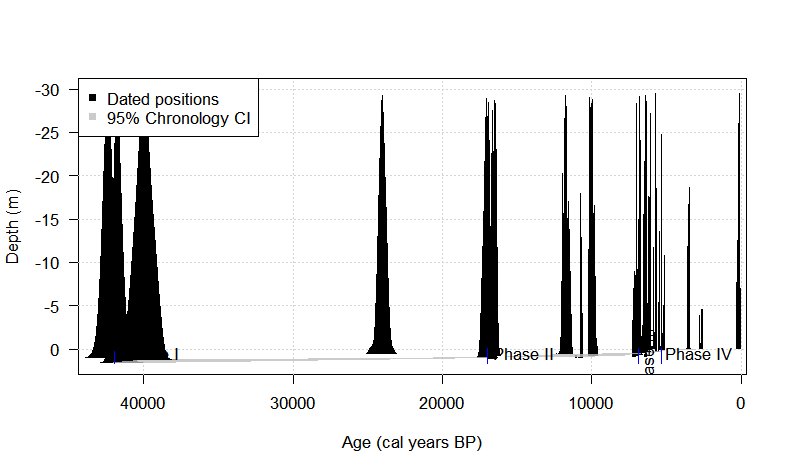
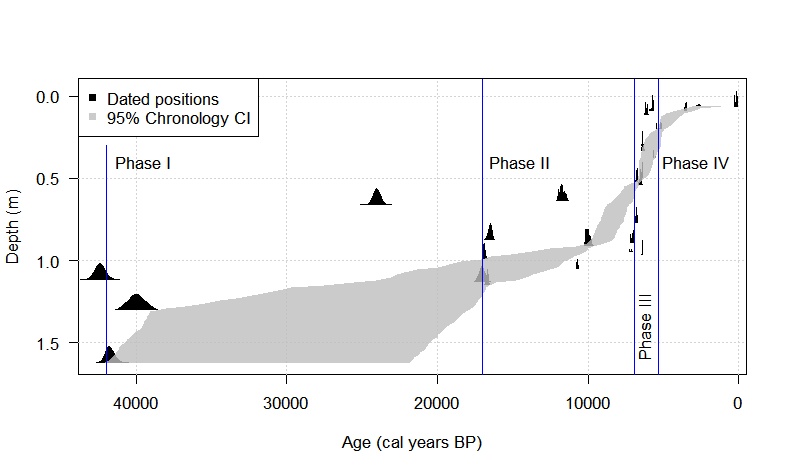
update the bchron plotting code to accommodate some changes in the package

diff --git a/manuscript/lithic_data_analysis_both_squares.html b/manuscript/lithic_data_analysis_both_squares.html
@@ -174,9 +174,10 @@ plot(ages_predict,
      main=&quot;&quot;,
      xlab='Age (cal years BP)',
      ylab='Depth (m)',
-     las=1 ) #, 
+     las=1, 
+     dateHeight = 0.1) #, 
      #asp=0.6)
-
+  
 # add phases
 
 phases &lt;- data.frame(phase = 1:4,
@@ -210,7 +211,7 @@ dev.off()
 
 # and show the plot when this document is knited
 bchron_plot()</code></pre>
[2 lines of base64/hex data omitted]
 <pre class="r"><code># various dadta
 core_types &lt;- read.csv(&quot;data/Jerimalai_cores_techno_metrics.csv&quot;)
 # retouch indices
@@ -3730,7 +3731,7 @@ kable(round(HDI_intervals_for_interactions,3), caption = &quot;Liang Bua Stone A
 </div>
 <div id="colophon" class="section level1">
 <h1>Colophon</h1>
-<p>This report was generated on 2016-08-27 21:59:45 using the following computational environment and dependences:</p>
+<p>This report was generated on 2016-08-27 23:30:45 using the following computational environment and dependences:</p>
 <pre class="r"><code># which R packages and versions?
 sessionInfo()</code></pre>
 <pre><code>R version 3.3.1 (2016-06-21)
@@ -3755,7 +3756,7 @@ other attached packages:
 [11] rjags_4-6                          coda_0.18-1                       
 [13] vcd_1.4-1                          dplyr_0.5.0.9000                  
 [15] plyr_1.8.4                         reshape2_1.4.1                    
-[17] ggplot2_2.1.0                      rmarkdown_1.0.9002                
+[17] ggplot2_2.1.0                      rmarkdown_1.0.9010                
 [19] printr_0.0.4                       knitr_1.14                        
 
 loaded via a namespace (and not attached):
@@ -3763,9 +3764,10 @@ loaded via a namespace (and not attached):
  [5] digest_0.6.10    jsonlite_1.0     evaluate_0.9     tibble_1.1      
  [9] gtable_0.2.0     DBI_0.5          jagsUI_1.4.2     yaml_2.1.13     
 [13] parallel_3.3.1   stringr_1.0.0    lmtest_0.9-34    ellipse_0.3-8   
-[17] R6_2.1.2         magrittr_1.5     scales_0.4.0     htmltools_0.3.5 
-[21] MASS_7.3-45      assertthat_0.1   colorspace_1.2-6 stringi_1.1.1   
-[25] lazyeval_0.2.0   munsell_0.4.3    chron_2.3-47     zoo_1.7-13      </code></pre>
+[17] R6_2.1.2         magrittr_1.5     codetools_0.2-14 scales_0.4.0    
+[21] htmltools_0.3.5  MASS_7.3-45      assertthat_0.1   colorspace_1.2-6
+[25] stringi_1.1.1    lazyeval_0.2.0   munsell_0.4.3    chron_2.3-47    
+[29] zoo_1.7-13      </code></pre>
 <pre class="r"><code># what other pieces of software?
 needs &lt;- needs()
 c(needs$depends$SystemRequirements[needs$depends$SystemRequirements != &quot;NULL&quot;], needs$imports$SystemRequirements[needs$imports$SystemRequirements != &quot;NULL&quot;])</code></pre>
@@ -3779,7 +3781,7 @@ c(needs$depends$SystemRequirements[needs$depends$SystemRequirements != &quot;NUL
 <pre class="r"><code># what commit is this file at?
 repo &lt;- repository(path = &quot;../&quot;)
 last_commit &lt;- commits(repo)[[1]]</code></pre>
-<p>The current git commit of this file is 21bce38adf5c3376370c8a3fbba103a605e95a17, which is on the master branch and was made by rstudio on 2016-05-13 17:29:53. The current commit message is “re-run both squares doc to generate figures”.</p>
+<p>The current git commit of this file is e3d67e2d4a5e8d11cb473b3dd1028a847b408594, which is on the master branch and was made by Ben Marwick on 2016-08-27 22:00:41. The current commit message is “clean run of both squares”.</p>
 </div>
 
 

diff --git a/manuscript/supplement.html b/manuscript/supplement.html
@@ -1,0 +1,243 @@
+<!DOCTYPE html>
+
+<html xmlns="http://www.w3.org/1999/xhtml">
+
+<head>
+
+<meta charset="utf-8">
+<meta http-equiv="Content-Type" content="text/html; charset=utf-8" />
+<meta name="generator" content="pandoc" />
+
+<meta name="viewport" content="width=device-width, initial-scale=1">
+
+
+<meta name="date" content="2016-08-27" />
+
+<title>Supplement for: Pleistocene-aged stone artefacts from Jerimalai, East Timor: Long term conservatism in early modern human technology in island Southeast Asia</title>
+
+
+
+<style type="text/css">code{white-space: pre;}</style>
+<style type="text/css">
+div.sourceCode { overflow-x: auto; }
+table.sourceCode, tr.sourceCode, td.lineNumbers, td.sourceCode {
+  margin: 0; padding: 0; vertical-align: baseline; border: none; }
+table.sourceCode { width: 100%; line-height: 100%; }
+td.lineNumbers { text-align: right; padding-right: 4px; padding-left: 4px; color: #aaaaaa; border-right: 1px solid #aaaaaa; }
+td.sourceCode { padding-left: 5px; }
+code > span.kw { color: #007020; font-weight: bold; } /* Keyword */
+code > span.dt { color: #902000; } /* DataType */
+code > span.dv { color: #40a070; } /* DecVal */
+code > span.bn { color: #40a070; } /* BaseN */
+code > span.fl { color: #40a070; } /* Float */
+code > span.ch { color: #4070a0; } /* Char */
+code > span.st { color: #4070a0; } /* String */
+code > span.co { color: #60a0b0; font-style: italic; } /* Comment */
+code > span.ot { color: #007020; } /* Other */
+code > span.al { color: #ff0000; font-weight: bold; } /* Alert */
+code > span.fu { color: #06287e; } /* Function */
+code > span.er { color: #ff0000; font-weight: bold; } /* Error */
+code > span.wa { color: #60a0b0; font-weight: bold; font-style: italic; } /* Warning */
+code > span.cn { color: #880000; } /* Constant */
+code > span.sc { color: #4070a0; } /* SpecialChar */
+code > span.vs { color: #4070a0; } /* VerbatimString */
+code > span.ss { color: #bb6688; } /* SpecialString */
+code > span.im { } /* Import */
+code > span.va { color: #19177c; } /* Variable */
+code > span.cf { color: #007020; font-weight: bold; } /* ControlFlow */
+code > span.op { color: #666666; } /* Operator */
+code > span.bu { } /* BuiltIn */
+code > span.ex { } /* Extension */
+code > span.pp { color: #bc7a00; } /* Preprocessor */
+code > span.at { color: #7d9029; } /* Attribute */
+code > span.do { color: #ba2121; font-style: italic; } /* Documentation */
+code > span.an { color: #60a0b0; font-weight: bold; font-style: italic; } /* Annotation */
+code > span.cv { color: #60a0b0; font-weight: bold; font-style: italic; } /* CommentVar */
+code > span.in { color: #60a0b0; font-weight: bold; font-style: italic; } /* Information */
+</style>
+
+
+
+<link href="data:text/css;charset=utf-8,body%20%7B%0Abackground%2Dcolor%3A%20%23fff%3B%0Amargin%3A%201em%20auto%3B%0Amax%2Dwidth%3A%20700px%3B%0Aoverflow%3A%20visible%3B%0Apadding%2Dleft%3A%202em%3B%0Apadding%2Dright%3A%202em%3B%0Afont%2Dfamily%3A%20%22Open%20Sans%22%2C%20%22Helvetica%20Neue%22%2C%20Helvetica%2C%20Arial%2C%20sans%2Dserif%3B%0Afont%2Dsize%3A%2014px%3B%0Aline%2Dheight%3A%201%2E35%3B%0A%7D%0A%23header%20%7B%0Atext%2Dalign%3A%20center%3B%0A%7D%0A%23TOC%20%7B%0Aclear%3A%20both%3B%0Amargin%3A%200%200%2010px%2010px%3B%0Apadding%3A%204px%3B%0Awidth%3A%20400px%3B%0Aborder%3A%201px%20solid%20%23CCCCCC%3B%0Aborder%2Dradius%3A%205px%3B%0Abackground%2Dcolor%3A%20%23f6f6f6%3B%0Afont%2Dsize%3A%2013px%3B%0Aline%2Dheight%3A%201%2E3%3B%0A%7D%0A%23TOC%20%2Etoctitle%20%7B%0Afont%2Dweight%3A%20bold%3B%0Afont%2Dsize%3A%2015px%3B%0Amargin%2Dleft%3A%205px%3B%0A%7D%0A%23TOC%20ul%20%7B%0Apadding%2Dleft%3A%2040px%3B%0Amargin%2Dleft%3A%20%2D1%2E5em%3B%0Amargin%2Dtop%3A%205px%3B%0Amargin%2Dbottom%3A%205px%3B%0A%7D%0A%23TOC%20ul%20ul%20%7B%0Amargin%2Dleft%3A%20%2D2em%3B%0A%7D%0A%23TOC%20li%20%7B%0Aline%2Dheight%3A%2016px%3B%0A%7D%0Atable%20%7B%0Amargin%3A%201em%20auto%3B%0Aborder%2Dwidth%3A%201px%3B%0Aborder%2Dcolor%3A%20%23DDDDDD%3B%0Aborder%2Dstyle%3A%20outset%3B%0Aborder%2Dcollapse%3A%20collapse%3B%0A%7D%0Atable%20th%20%7B%0Aborder%2Dwidth%3A%202px%3B%0Apadding%3A%205px%3B%0Aborder%2Dstyle%3A%20inset%3B%0A%7D%0Atable%20td%20%7B%0Aborder%2Dwidth%3A%201px%3B%0Aborder%2Dstyle%3A%20inset%3B%0Aline%2Dheight%3A%2018px%3B%0Apadding%3A%205px%205px%3B%0A%7D%0Atable%2C%20table%20th%2C%20table%20td%20%7B%0Aborder%2Dleft%2Dstyle%3A%20none%3B%0Aborder%2Dright%2Dstyle%3A%20none%3B%0A%7D%0Atable%20thead%2C%20table%20tr%2Eeven%20%7B%0Abackground%2Dcolor%3A%20%23f7f7f7%3B%0A%7D%0Ap%20%7B%0Amargin%3A%200%2E5em%200%3B%0A%7D%0Ablockquote%20%7B%0Abackground%2Dcolor%3A%20%23f6f6f6%3B%0Apadding%3A%200%2E25em%200%2E75em%3B%0A%7D%0Ahr%20%7B%0Aborder%2Dstyle%3A%20solid%3B%0Aborder%3A%20none%3B%0Aborder%2Dtop%3A%201px%20solid%20%23777%3B%0Amargin%3A%2028px%200%3B%0A%7D%0Adl%20%7B%0Amargin%2Dleft%3A%200%3B%0A%7D%0Adl%20dd%20%7B%0Amargin%2Dbottom%3A%2013px%3B%0Amargin%2Dleft%3A%2013px%3B%0A%7D%0Adl%20dt%20%7B%0Afont%2Dweight%3A%20bold%3B%0A%7D%0Aul%20%7B%0Amargin%2Dtop%3A%200%3B%0A%7D%0Aul%20li%20%7B%0Alist%2Dstyle%3A%20circle%20outside%3B%0A%7D%0Aul%20ul%20%7B%0Amargin%2Dbottom%3A%200%3B%0A%7D%0Apre%2C%20code%20%7B%0Abackground%2Dcolor%3A%20%23f7f7f7%3B%0Aborder%2Dradius%3A%203px%3B%0Acolor%3A%20%23333%3B%0Awhite%2Dspace%3A%20pre%2Dwrap%3B%20%0A%7D%0Apre%20%7B%0Aborder%2Dradius%3A%203px%3B%0Amargin%3A%205px%200px%2010px%200px%3B%0Apadding%3A%2010px%3B%0A%7D%0Apre%3Anot%28%5Bclass%5D%29%20%7B%0Abackground%2Dcolor%3A%20%23f7f7f7%3B%0A%7D%0Acode%20%7B%0Afont%2Dfamily%3A%20Consolas%2C%20Monaco%2C%20%27Courier%20New%27%2C%20monospace%3B%0Afont%2Dsize%3A%2085%25%3B%0A%7D%0Ap%20%3E%20code%2C%20li%20%3E%20code%20%7B%0Apadding%3A%202px%200px%3B%0A%7D%0Adiv%2Efigure%20%7B%0Atext%2Dalign%3A%20center%3B%0A%7D%0Aimg%20%7B%0Abackground%2Dcolor%3A%20%23FFFFFF%3B%0Apadding%3A%202px%3B%0Aborder%3A%201px%20solid%20%23DDDDDD%3B%0Aborder%2Dradius%3A%203px%3B%0Aborder%3A%201px%20solid%20%23CCCCCC%3B%0Amargin%3A%200%205px%3B%0A%7D%0Ah1%20%7B%0Amargin%2Dtop%3A%200%3B%0Afont%2Dsize%3A%2035px%3B%0Aline%2Dheight%3A%2040px%3B%0A%7D%0Ah2%20%7B%0Aborder%2Dbottom%3A%204px%20solid%20%23f7f7f7%3B%0Apadding%2Dtop%3A%2010px%3B%0Apadding%2Dbottom%3A%202px%3B%0Afont%2Dsize%3A%20145%25%3B%0A%7D%0Ah3%20%7B%0Aborder%2Dbottom%3A%202px%20solid%20%23f7f7f7%3B%0Apadding%2Dtop%3A%2010px%3B%0Afont%2Dsize%3A%20120%25%3B%0A%7D%0Ah4%20%7B%0Aborder%2Dbottom%3A%201px%20solid%20%23f7f7f7%3B%0Amargin%2Dleft%3A%208px%3B%0Afont%2Dsize%3A%20105%25%3B%0A%7D%0Ah5%2C%20h6%20%7B%0Aborder%2Dbottom%3A%201px%20solid%20%23ccc%3B%0Afont%2Dsize%3A%20105%25%3B%0A%7D%0Aa%20%7B%0Acolor%3A%20%230033dd%3B%0Atext%2Ddecoration%3A%20none%3B%0A%7D%0Aa%3Ahover%20%7B%0Acolor%3A%20%236666ff%3B%20%7D%0Aa%3Avisited%20%7B%0Acolor%3A%20%23800080%3B%20%7D%0Aa%3Avisited%3Ahover%20%7B%0Acolor%3A%20%23BB00BB%3B%20%7D%0Aa%5Bhref%5E%3D%22http%3A%22%5D%20%7B%0Atext%2Ddecoration%3A%20underline%3B%20%7D%0Aa%5Bhref%5E%3D%22https%3A%22%5D%20%7B%0Atext%2Ddecoration%3A%20underline%3B%20%7D%0A%0Acode%20%3E%20span%2Ekw%20%7B%20color%3A%20%23555%3B%20font%2Dweight%3A%20bold%3B%20%7D%20%0Acode%20%3E%20span%2Edt%20%7B%20color%3A%20%23902000%3B%20%7D%20%0Acode%20%3E%20span%2Edv%20%7B%20color%3A%20%2340a070%3B%20%7D%20%0Acode%20%3E%20span%2Ebn%20%7B%20color%3A%20%23d14%3B%20%7D%20%0Acode%20%3E%20span%2Efl%20%7B%20color%3A%20%23d14%3B%20%7D%20%0Acode%20%3E%20span%2Ech%20%7B%20color%3A%20%23d14%3B%20%7D%20%0Acode%20%3E%20span%2Est%20%7B%20color%3A%20%23d14%3B%20%7D%20%0Acode%20%3E%20span%2Eco%20%7B%20color%3A%20%23888888%3B%20font%2Dstyle%3A%20italic%3B%20%7D%20%0Acode%20%3E%20span%2Eot%20%7B%20color%3A%20%23007020%3B%20%7D%20%0Acode%20%3E%20span%2Eal%20%7B%20color%3A%20%23ff0000%3B%20font%2Dweight%3A%20bold%3B%20%7D%20%0Acode%20%3E%20span%2Efu%20%7B%20color%3A%20%23900%3B%20font%2Dweight%3A%20bold%3B%20%7D%20%20code%20%3E%20span%2Eer%20%7B%20color%3A%20%23a61717%3B%20background%2Dcolor%3A%20%23e3d2d2%3B%20%7D%20%0A" rel="stylesheet" type="text/css" />
+
+</head>
+
+<body>
+
+
+
+
+<h1 class="title toc-ignore">Supplement for: Pleistocene-aged stone artefacts from Jerimalai, East Timor: Long term conservatism in early modern human technology in island Southeast Asia</h1>
+<h4 class="author"><em>Ben Marwick</em></h4>
+<a class="author_email" href="mailto:#"><a href="mailto:bmarwick@uw.edu">bmarwick@uw.edu</a></a>
+</address>
+<h4 class="date"><em>2016-08-27</em></h4>
+
+
+<div id="TOC">
+<ul>
+<li><a href="#introduction"><span class="toc-section-number">1</span> Introduction</a><ul>
+<li><a href="#reproducing-the-results-in-the-paper"><span class="toc-section-number">1.1</span> Reproducing the results in the paper</a></li>
+<li><a href="#code-and-dependencies"><span class="toc-section-number">1.2</span> Code and Dependencies</a></li>
+<li><a href="#data-availability"><span class="toc-section-number">1.3</span> Data availability</a></li>
+<li><a href="#motivations-for-the-bayesian-approach-used-in-the-paper"><span class="toc-section-number">1.4</span> Motivations for the Bayesian approach used in the paper</a></li>
+<li><a href="#bayesian-one-way-anova-and-bayesian-poisson-exponential-anova"><span class="toc-section-number">1.5</span> Bayesian one-way ANOVA and Bayesian Poisson exponential ANOVA</a><ul>
+<li><a href="#references"><span class="toc-section-number">1.5.1</span> References</a></li>
+</ul></li>
+</ul></li>
+<li><a href="#colophon"><span class="toc-section-number">2</span> Colophon</a></li>
+</ul>
+</div>
+
+<div id="introduction" class="section level1">
+<h1><span class="header-section-number">1</span> Introduction</h1>
+<p>This document is part of a research compendium that accompaies the analysis of stone artefacts from Jerimalai rockshelter reported in Marwick et al. “Pleistocene-aged stone artefacts from Jerimalai, East Timor: Long term conservatism in early modern human technology in island Southeast Asia”.</p>
+<p>This supplement has several parts. The first part, this file, explains the motivation for the Bayesian approach used in this study, and explains how the results of the paper can be reproduced with the included code and data. The other parts are the other three R markdown files (“lithic_data_analysis_square_A.Rmd” etc.) that can be excecuted to reproduce the analysis found in the paper. The R markdown file for both squares (“lithic_data_analysis_both_squares.Rmd”) will reproduce the data described in the paper. The other R markdown files are additional analyses (each square by itself) that are not reported in the paper, but are included here to respond to comments from peer reviewers. These R markdown file for both squares are organised with the same structure as the manuscript and will produce all of the quantitative results, data visualisations and tables found in the manuscript.</p>
+<div id="reproducing-the-results-in-the-paper" class="section level2">
+<h2><span class="header-section-number">1.1</span> Reproducing the results in the paper</h2>
+<p>The source file for this document is an R markdown document, which means that it is a plain text file that contains marked-up text (such as this paragraph), and chunks of the R programming language in between paragraphs of plain text. This file may be viewed in any text editor, and executed to run the code using R version 3.2.0 or higher.</p>
+<p>This section of the document is organised with the same structure as the manuscript and will produce all of the quantitative results, data visualisations and tables found in the manuscript. This document is an R markdown document, which means that it is a plain text file that contains marked-up text (such as this paragraph), and chunks of the R programming language in between paragraphs of plain text. This file may be viewed in RStudion or any text editor, and executed to run the code using R. When the document is executed, a HTML file is produced that contains the tables, plots and other statistical output generated by the code (if you see plots below, you are reading this HTML file). All of the analysis code is present in both the R markdown and HTML files, but some lines of setup code have been hidden from the HTML file to improve readabiltiy.</p>
+<p>The purpose of providing this supplement is to enable the reader to more thoroughly evaluate the reliability of our work through close inspection the quantitiative methods we used in the paper, and to enable computational reproduciblity of our methods to facailite their application to other research projects. Note that the code presented here has been developed and tested specifically for this analysis, and is not yet intended as a general purpose tool.</p>
+</div>
+<div id="code-and-dependencies" class="section level2">
+<h2><span class="header-section-number">1.2</span> Code and Dependencies</h2>
+<p>The exact version of the code that produced the data and figures in the published paper is archived at <a href="http://dx.doi.org/10.6084/m9.figshare.985406" class="uri">http://dx.doi.org/10.6084/m9.figshare.985406</a>. The development version of this code can be found at <a href="https://github.com/benmarwick/Pleistocene-aged-stone-artefacts-from-Jerimalai--East-Timor">https://github.com/benmarwick/Pleistocene-aged-stone-artefacts-from-Jerimalai–East-Timor</a>. Note that the code in the development version on github may have changed since publication and may not produce exactly the same output as found in the published paper.</p>
+<p>The code should run on a typical personal computer (Windows/OSX/Linux) that can run R and can install R packages from the internet. The specific software dependencies for the code included here are listed in the code chunk above this text and the DESCRIPTION file of the R package that this supplement file is contained in (the R package name is JerimalaiStoneArtefacts).</p>
+<p>Managing the dependencies can be tedious, and we have no control over how they will change in the future. In an effort to capture the entire computational environment that this analysis was developed and conducted in, and protect against changes in the dependant software packages, we provide a Docker image as a lightweight virtual machine that is the actual environment in which we developed, tested and ran the code. The Docker image contains all the necessary software, code and data already installed, so no further configuration is required. We also include a Dockerfile as a record of the instructions used to build the Docker image, this can be found in the <code>docker/</code> directory in the research compendium. To launch the Docker image for this project, first, <a href="https://docs.docker.com/installation/">install Docker</a>, then run Docker and at the Docker prompt, enter:</p>
+<pre><code>docker run -dp 8787:8787 benmarwick/jerimalaistoneartefacts</code></pre>
+<p>Then open a web broswer at the following URL to access RStudio (username and password are “rstudio”):</p>
+<pre><code>http://localhost:8787/        ## Linux users
+http://192.168.59.103:8787/   ## OSX, Windows users</code></pre>
+<p>Once logged in, the Files pane (bottom right) will show the <code>manuscript/</code> directory where you can find this document and execute it. More information about using RStudio in Docker is avaiable at the <a href="https://github.com/rocker-org">Rocker</a> <a href="https://github.com/rocker-org/rocker/wiki/Using-the-RStudio-image">wiki</a> pages.</p>
+</div>
+<div id="data-availability" class="section level2">
+<h2><span class="header-section-number">1.3</span> Data availability</h2>
+<p>All of the data needed to reproduce the results presented in the paper are included in this compendium as CSV files (ie. plain text comma separated variables, readable in any text editor). They can be found in the <code>data/</code> directory and are made available with a <a href="https://creativecommons.org/publicdomain/zero/1.0/">CC-0 licence</a>. The code chunk below loads all of the data files into the R working environment (assuming you have the working directory set to the location of this supplement file).</p>
+</div>
+<div id="motivations-for-the-bayesian-approach-used-in-the-paper" class="section level2">
+<h2><span class="header-section-number">1.4</span> Motivations for the Bayesian approach used in the paper</h2>
+<p>Statistical tests for this study were conducted using the Bayesian framework described in Krushcke (2011). Bayesian statistics are familiar to archaeologists in the context of radiocarbon dating because they provide formal methods for improving the calibration of radiocarbon ages by combining them with other data, such as stratigraphic information, that gives additional constraints to the chronological order of the dated samples (Ramsey, 2009). Beyond calibrating radiocarbon dates, there have been very few applications of Bayesian methods of statistical inference in archaeology (Buck and Litton, 1990a; Buck et al., 1996; Buck and Litton, 1990b; Dellaportas, 1998; Gowland and Chamberlain, 2002; Halekoh and Vach, 2004). Due to the rarity of Bayesian inference in archaeology more broadly, we present here an extended discussion to motivate its use in place of the classical Null Hypothesis Significance Tests (NHST). These classical tests, such as the t-test, chi-square and ANOVA, are based on frequentist inference, and are very common in the archaeological literature.</p>
+<p>Although frequentist inference dominates the archaeological literature, we were motivated to explore alternatives by several concerns. Serious disadvantages of the frequentist approach have been identified in other disciplines over recent decades (some of the circa 500 publications on this topic include: Cohen, 1994; Gill, 1999; Guttman, 1985; Johnson, 1999; Lambdin, 2012; Nickerson, 2000; Schmidt, 1996; Stephens et al., 2007; Wagenmakers, 2007). The catalogue of problems and misunderstandings surrounding the use of NHST is extensive, so we here we only briefly review some of the most frequently noted objections before describing how Bayesian methods provide options for avoiding these problems in our specific case.</p>
+<p>Many of the criticisms focus on misuse of the p-values that are generated by NHST methods (Halsey et al., 2015). For example, lower p-values are sometimes interpreted as indicating greater significance (an effect size statistic is necessary to obtain this information; Gliner et al., 2002). Further misunderstandings include that the p-value gives the odds that a research hypothesis is correct, that a result will replicate, that the null hypothesis is true, and that statistical significance indicated by the p-value is equivalent to scientific significance (Carver, 1993; Cohen, 1994; Lambdin, 2012). Even when the NHST results are interpreted correctly, others have pointed out that NHST are often under-powered, and that small differences in estimates of population parameters from large samples, no matter how scientifically insignificant, will yield significant NHST results (Johnson, 1999; Nix and Barnette, 1998). While some of these problems can be mitigated by including related statistical measures (such as effect sizes and confidence intervals), there have been claims that researchers should abandon NHST as a method of statistical inference (Loftus, 1996) or be forbidden from using them in publication (Fidler et al., 2004; Shrout, 1997).</p>
+<p>Although several alternatives exist to frequentist inference, our choice of a Bayeasian approach is motivated by its suitability to the specific details of this analysis. We were especially motivated by the relative conceptual and computational simplicity of conducting Bayesian analyses, compared to the alternatives (ie. likelihood-based statistics, and Akaikean-Information Criterion-based statistics). It is noteworthy that among philosophers of science, both supporters and critics consider Bayesianism to be dominant view in their field, and the paradigm has been central to recent developments in disciplines as philosophy, statistics, ecology, and computer science (Bandyopadhyay and Forster, 2009).</p>
+<p>There are two specific details of this analysis that are relevant to our choice of a Bayesian approach. First is that Bayesian methods generally provide a more coherent basis for working with data from non-repeatable events such as an archaeological excavation (compared to, for example agricultural field trials, cf. Fisher 1921). Bayesian methods use the data at hand to produce posterior probability statements about distributions of parameters and hypotheses (Puga et al., 2015). NHST procedures do the reverse, computing the probability of an event as a point value indicating its relative frequency of occurrence in an infinite sequence of repeated experiments. In this way, NHST methods use a null hypothesis to assess the plausibility of the observed data (and more ‘extreme’ data sets that were not observed but might have been with additional sampling or experiments), with another step of reasoning required to either reject or fail to reject the null hypothesis (Jackman, 2009). This means that Bayesian inference is based on the actual occurring data, not all possible data sets that might have occurred in an infinite number of hypothetical repetitions of the study (Bolstad, 2007). We consider Bayesian inference to be a conceptually simpler and more direct approach where we compute the probability of our hypotheses, not our data, as the NHST framework does.</p>
+<p>Although Bayesian methods have intuitive appeal, they have been criticised as subjective and arbitrary because typically the analyst must choose a prior distribution over the unknown parameters (eg. mean, standard deviation, etc.) of the model to capture their beliefs about the situation before working with the data. Once the data are collected, Bayes’ rule is used to combine the prior distribution with the data to compute a posterior distribution of the unknown parameters. Most current applications formalise the choice of prior distributions by either following expert recommendations, estimating the distribution from the observed data (known as an empirical Bayesian approach, Carlin and Louis, 2011), using pre-existing data sets to generate priors (Anholt et al., 2000; Carlin and Louis, 2011; McCarthy and Masters, 2005), or using uninformative or weakly informative prior distributions (such as the uniform distribution) that do not give strong prior probability to any hypotheses about the data (Burnham and Anderson, 2002; Efron, 2013). We describe our choice of prior and likelihood functions in the methods section below. We also have made freely available all the raw data and R programming code used to compute the analyses presented here, to facilitate close inspection and reuse of our quantitative methods.</p>
+</div>
+<div id="bayesian-one-way-anova-and-bayesian-poisson-exponential-anova" class="section level2">
+<h2><span class="header-section-number">1.5</span> Bayesian one-way ANOVA and Bayesian Poisson exponential ANOVA</h2>
+<p>We used two types of Bayesian methods, a one-way ANOVA for comparing groups of metric data (such as artefact measurements over different phases of occupation, where an ANOVA is the common NHST), and a Poisson exponential ANOVA for contingency table analysis (such as artefact counts, where a chi-square is the common NHST). Our supplementary information includes further discussion of the motivation for using a Bayesian approach, as well as an R package that makes these methods available for use with other datasets. For an extended technical description and graphical models of these methods, see Krushcke (2011). Our Bayesian one-way ANOVA takes the metric predicted variable (eg. artefact length or mass) and considers how it is deflected by each of the nominally scaled predictor variables (eg. depositional phase). These deflection parameters are the primary interest, and following Gelman (2005, 2006) we apply a hierarchical (or multilevel) model with a folded-t prior distribution (because it does not have infinite density near zero, so it behaves well when group-level variance is at or near zero) on the standard deviation, a uniform (or flat) distribution on the variance between levels (as an uninformative prior) and a fat-tailed normal distribution on the likelihood (to better accommodate outliers in the data). The parameters of these distributions are derived from the observed data. The combination of the specific types of prior distributions used here, and that their parameters come from the observed data, mean that this Bayesian ANOVA uses weakly informative priors that are not intended to represent our actual prior state of knowledge (which is small in this case) but rather to constrain the posterior distribution, to an extent allowed by the data (Gelman 2006).</p>
+<p>For the contingency table analysis, a Poisson likelihood distribution is used as an exponential link function from an underlying ANOVA model. The term ‘ANOVA’ does not imply groups of a nominal measurement variable in our observed data (which are counts in this case). Instead it refers to the general ANOVA-like approach of comparing the distributions of cell frequencies that we produce when predicting the cell frequencies. Where the chi-square computes a single estimated value per cell of the table, the Bayesian approach generates a distribution of values for each cell of the table. Comparing these distributions is analogous to two-way ANOVA, and investigating the relationships within and between variables in the table is analogous to main effects and interaction contrasts in ANOVA. The Poisson distribution is well-suited as the likelihood function for count data because it returns only non-negative integer values and is widely used to model discrete occurrences in time or across space (Sadiku and Tofighi 1999, Jackman 2009). This method also uses the folded-t prior, like the one-way ANOVA above, and thus has a weakly informative prior that reflects our low degree of prior knowledge about these assemblages.</p>
+<p>To obtain a result from these tests we computed the posterior distributions, or evaluated the outcome of combining the data with our beliefs about the processes that produced the data (weakly held, in this case, so that the data contribute much more information than the prior about the parameters of the posterior). The general process of obtaining the posterior distributions is to combine, or integrate, the prior and likelihood distributions. We used Markov chain Monte Carlo (MCMC) methods to approximate the integral by taking a very large number of independent samples from the distributions to approximate the distribution of the product of the prior and the likelihood. From this approximated distribution we computed descriptive statistics of the posterior distribution to interpret the substantive significance of the output.</p>
+<p>Our results from these Bayesian tests are reported here as highest probability density intervals (HDIs), with more extensive output presented in the supplementary materials. The HDI is the range of values that contain 95% of the values in the posterior distribution produced by the MCMC sampling. Our supplementary materials also include the equivalent null-hypothesis-significance-test for direct comparison by readers who are unfamiliar with Bayesian tests. The supplementary materials also include the raw data used for all tests so that others may reuse the measurements in their own tests and combine with other datasets.</p>
+<div id="references" class="section level3">
+<h3><span class="header-section-number">1.5.1</span> References</h3>
+<p>Anholt, B.R., Werner, E., Skelly, D.K., 2000. Effect of food and predators on the activity of four larval ranid frogs. Ecology 81, 3509-3521.</p>
+<p>Bandyopadhyay, P., Forster, M., 2009. Introduction to the Philosophy of Statistics, Handbook for the Philosophy of Science: Philosophy of Statistics. Elsevier, Amsterdam, pp. 1-50.</p>
+<p>Bolstad, W.M., 2007. Introduction to Bayesian statistics. John Wiley &amp; Sons, New York.</p>
+<p>Buck, C., Litton, C., 1990a. A computational Bayes approach to some common archaeological problems, Proceedings of the 2002 Computer Applications in Archaeology Conference, <a href="http://proceedings.caaconference.org/files/1990/15_Buck_Litton_CAA_1990.pdf" class="uri">http://proceedings.caaconference.org/files/1990/15_Buck_Litton_CAA_1990.pdf</a>.</p>
+<p>Buck, C.E., Cavanagh, W.G., Litton, C.D., 1996. Bayesian approach to interpreting archaeological data. Wiley Chichester England.</p>
+<p>Buck, C.E., Litton, C., 1990b. A computational Bayes approach to some common archaeological problems. Computer applications and quantitative methods in archaeology, 93-99.</p>
+<p>Burnham, K.P., Anderson, D.R., 2002. Model selection and multimodel inference: a practical information-theoretic approach. Springer-Verlag, New York.</p>
+<p>Carlin, B.P., Louis, T.A., 2011. Bayesian methods for data analysis. CRC Press.</p>
+<p>Carver, R.P., 1993. The case against statistical significance testing, revisited. Journal of Experimental Education 61, 287-292.</p>
+<p>Cohen, J., 1994. The earth is round (p&lt;. 05). American Psychologist 49, 997-1003.</p>
+<p>Dellaportas, P., 1998. Bayesian classification of neolithic tools. Applied Statistics 47, 279-297.</p>
+<p>Efron, B., 2013. Bayes’ theorem in the 21st century. Science 340, 1177-1178.</p>
+<p>Fidler, F., Geoff, C., Mark, B., Neil, T., 2004. Statistical reform in medicine, psychology and ecology. The Journal of Socio-Economics 33, 615-630.</p>
+<p>Fisher, R.A., 1921. Studies in crop variation. I. An examination of the yield of dressed grain from Broadbalk. The Journal of Agricultural Science 11, 107-135.</p>
+<p>Gelman, A. (2005). “Analysis of variance—why it is more important than ever.” The Annals of Statistics 33(1): 1-53.</p>
+<p>Gelman, A. (2006). “Prior distributions for variance parameters in hierarchical models (comment on article by Browne and Draper).” Bayesian analysis 1(3): 515-534.</p>
+<p>Gill, J., 1999. The insignificance of null hypothesis significance testing. Political Research Quarterly 52, 647-674.</p>
+<p>Gliner, J.A., Leech, N.L., Morgan, G.A., 2002. Problems with null hypothesis significance testing (NHST): what do the textbooks say? The Journal of Experimental Education 71, 83-92.</p>
+<p>Gowland, R.L., Chamberlain, A.T., 2002. A Bayesian approach to ageing perinatal skeletal material from archaeological sites: implications for the evidence for infanticide in Roman-Britain. J Archaeol Sci 29, 677-685.</p>
+<p>Guttman, L., 1985. The illogic of statistical inference for cumulative science. Applied stochastic models and data analysis 1, 3-9.</p>
+<p>Halekoh, U., Vach, W., 2004. A Bayesian approach to seriation problems in archaeology. Computational Statistics &amp; Data Analysis 45, 651-673.</p>
+<p>Halsey, L.G., Curran-Everett, D., Vowler, S.L., Drummond, G.B., 2015. The fickle P value generates irreproducible results. Nature Methods 12, 179-185.</p>
+<p>Jackman, S., 2009. Bayesian analysis for the social sciences. John Wiley &amp; Sons, Melbourne.</p>
+<p>Johnson, D.H., 1999. The insignificance of statistical significance testing. The Journal of Wildlife Management 63, 763-772.</p>
+<p>Krushcke, J.K., 2011. Doing Bayesian Data Analysis: A Tutorial with R and BUGS. Academic Press, New York.</p>
+<p>Lambdin, C., 2012. Significance tests as sorcery: Science is empirical—significance tests are not. Theory &amp; Psychology 22, 67-90.</p>
+<p>Loftus, G.R., 1996. Psychology will be a much better science when we change the way we analyze data. Current directions in psychological science, 161-171.</p>
+<p>McCarthy, M.A., Masters, P.I.P., 2005. Profiting from prior information in Bayesian analyses of ecological data. Journal of Applied Ecology 42, 1012-1019.</p>
+<p>Nickerson, R.S., 2000. Null hypothesis significance testing: A review of an old and continuing controversy. Psychological Methods 5, 241-301.</p>
+<p>Nix, T.W., Barnette, J.J., 1998. The data analysis dilemma: Ban or abandon. A review of null hypothesis significance testing. Research in the Schools 5, 3-14.</p>
+<p>Puga, J.L., Krzywinski, M., Altman, N., 2015. Points of significance: Bayesian statistics. Nature Methods 12, 377-378.</p>
+<p>Ramsey, C.B., 2009. Bayesian analysis of radiocarbon dates. Radiocarbon; Vol 51, No 1 (2009).</p>
+<p>Reimer, P.J., Bard, E., Bayliss, A., Beck, J.W., Blackwell, P.G., Ramsey, C.B., Buck, C.E., Cheng, H., Edwards, R.L., Friedrich, M., 2013. IntCal13 and Marine13 radiocarbon age calibration curves 0–50,000 years cal BP. Radiocarbon 55, 1869-1887.</p>
+<p>Sadiku, M. N. O. and M. R. Tofighi (1999). “A tutorial on simulation of queueing models.” International Journal of Electrical Engineering Education 36(2): 102-120.</p>
+<p>Schmidt, F.L., 1996. Statistical significance testing and cumulative knowledge in psychology: Implications for training of researchers. Psychological Methods 1, 115.</p>
+<p>Shrout, P.E., 1997. Should significance tests be banned? Introduction to a special section exploring the pros and cons. Psychological Science 8, 1-2.</p>
+<p>Stephens, P.A., Buskirk, S.W., del Rio, C.M., 2007. Inference in ecology and evolution. Trends in Ecology &amp; Evolution In Press, Corrected Proof.</p>
+<p>Trafimow, D., Marks, M., 2015. Editorial. Basic and Applied Social Psychology 37, 1-2.</p>
+<p>Wagenmakers, E.-J., 2007. A practical solution to the pervasive problems ofp values. Psychonomic bulletin &amp; review 14, 779-804.</p>
+</div>
+</div>
+</div>
+<div id="colophon" class="section level1">
+<h1><span class="header-section-number">2</span> Colophon</h1>
+<p>This report was generated on 2016-08-27 22:58:16 using the following computational environment and dependences:</p>
+<div class="sourceCode"><pre class="sourceCode r"><code class="sourceCode r"><span class="co"># which R packages and versions?</span>
+<span class="kw">sessionInfo</span>()</code></pre></div>
+<pre><code>R version 3.3.1 (2016-06-21)
+Platform: x86_64-w64-mingw32/x64 (64-bit)
+Running under: Windows 7 x64 (build 7601) Service Pack 1
+
+locale:
+[1] LC_COLLATE=English_Australia.1252  LC_CTYPE=English_Australia.1252   
+[3] LC_MONETARY=English_Australia.1252 LC_NUMERIC=C                      
+[5] LC_TIME=English_Australia.1252    
+
+attached base packages:
+[1] grid      stats     graphics  grDevices utils     datasets  methods  
+[8] base     
+
+other attached packages:
+ [1] JerimalaiStoneArtefacts_0.0.0.9000 Bchron_4.2.5                      
+ [3] inline_0.3.14                      dependencies_0.0-1                
+ [5] git2r_0.15.0                       data.table_1.9.6                  
+ [7] xtable_1.8-2                       lattice_0.20-33                   
+ [9] BEST_0.4.0                         runjags_2.0.4-2                   
+[11] rjags_4-6                          coda_0.18-1                       
+[13] vcd_1.4-1                          dplyr_0.5.0.9000                  
+[15] plyr_1.8.4                         reshape2_1.4.1                    
+[17] ggplot2_2.1.0                      rmarkdown_1.0.9010                
+[19] printr_0.0.4                       knitr_1.14                        
+
+loaded via a namespace (and not attached):
+ [1] Rcpp_0.12.6      formatR_1.4      tools_3.3.1      mclust_5.2      
+ [5] digest_0.6.10    jsonlite_1.0     evaluate_0.9     tibble_1.1      
+ [9] gtable_0.2.0     DBI_0.5          jagsUI_1.4.2     yaml_2.1.13     
+[13] parallel_3.3.1   stringr_1.0.0    lmtest_0.9-34    ellipse_0.3-8   
+[17] R6_2.1.2         magrittr_1.5     scales_0.4.0     htmltools_0.3.5 
+[21] MASS_7.3-45      assertthat_0.1   colorspace_1.2-6 stringi_1.1.1   
+[25] munsell_0.4.3    chron_2.3-47     zoo_1.7-13      </code></pre>
+<div class="sourceCode"><pre class="sourceCode r"><code class="sourceCode r"><span class="co"># what other pieces of software?</span>
+needs &lt;-<span class="st"> </span><span class="kw">needs</span>()
+<span class="kw">c</span>(needs$depends$SystemRequirements[needs$depends$SystemRequirements !=<span class="st"> &quot;NULL&quot;</span>], needs$imports$SystemRequirements[needs$imports$SystemRequirements !=<span class="st"> &quot;NULL&quot;</span>])</code></pre></div>
+<pre><code>[1] &quot;zlib headers and library. OpenSSL headers and\nlibrary. LibSSH2 (optional on non-Windows) to enable the SSH\ntransport.&quot;                                                                             
+[2] &quot;JAGS (http://mcmc-jags.sourceforge.net)&quot;                                                                                                                                                             
+[3] &quot;JAGS 4.x.y&quot;                                                                                                                                                                                          
+[4] &quot;pandoc (&gt;= 1.12.3) -\nhttp://johnmacfarlane.net/pandoc&quot;                                                                                                                                              
+[5] &quot;Package vignettes based on R Markdown v2 require\nPandoc (http://pandoc.org). The function rst2pdf() and\nvignettes based on reStructuredText require rst2pdf\n(https://github.com/rst2pdf/rst2pdf).&quot;
+[6] &quot;JAGS (http://mcmc-jags.sourceforge.net)&quot;                                                                                                                                                             
+[7] &quot;ICU4C (&gt;= 50, optional)&quot;                                                                                                                                                                             </code></pre>
+<div class="sourceCode"><pre class="sourceCode r"><code class="sourceCode r"><span class="co"># what commit is this file at?</span>
+repo &lt;-<span class="st"> </span><span class="kw">repository</span>(<span class="dt">path =</span> <span class="st">&quot;../&quot;</span>)
+last_commit &lt;-<span class="st"> </span><span class="kw">commits</span>(repo)[[<span class="dv">1</span>]]</code></pre></div>
+<p>The current git commit of this file is e3d67e2d4a5e8d11cb473b3dd1028a847b408594, which is on the master branch and was made by Ben Marwick on 2016-08-27 22:00:41. The current commit message is “clean run of both squares”.</p>
+</div>
+
+
+
+<!-- dynamically load mathjax for compatibility with self-contained -->
+<script>
+  (function () {
+    var script = document.createElement("script");
+    script.type = "text/javascript";
+    script.src  = "https://cdn.mathjax.org/mathjax/latest/MathJax.js?config=TeX-AMS-MML_HTMLorMML";
+    document.getElementsByTagName("head")[0].appendChild(script);
+  })();
+</script>
+
+</body>
+</html>
